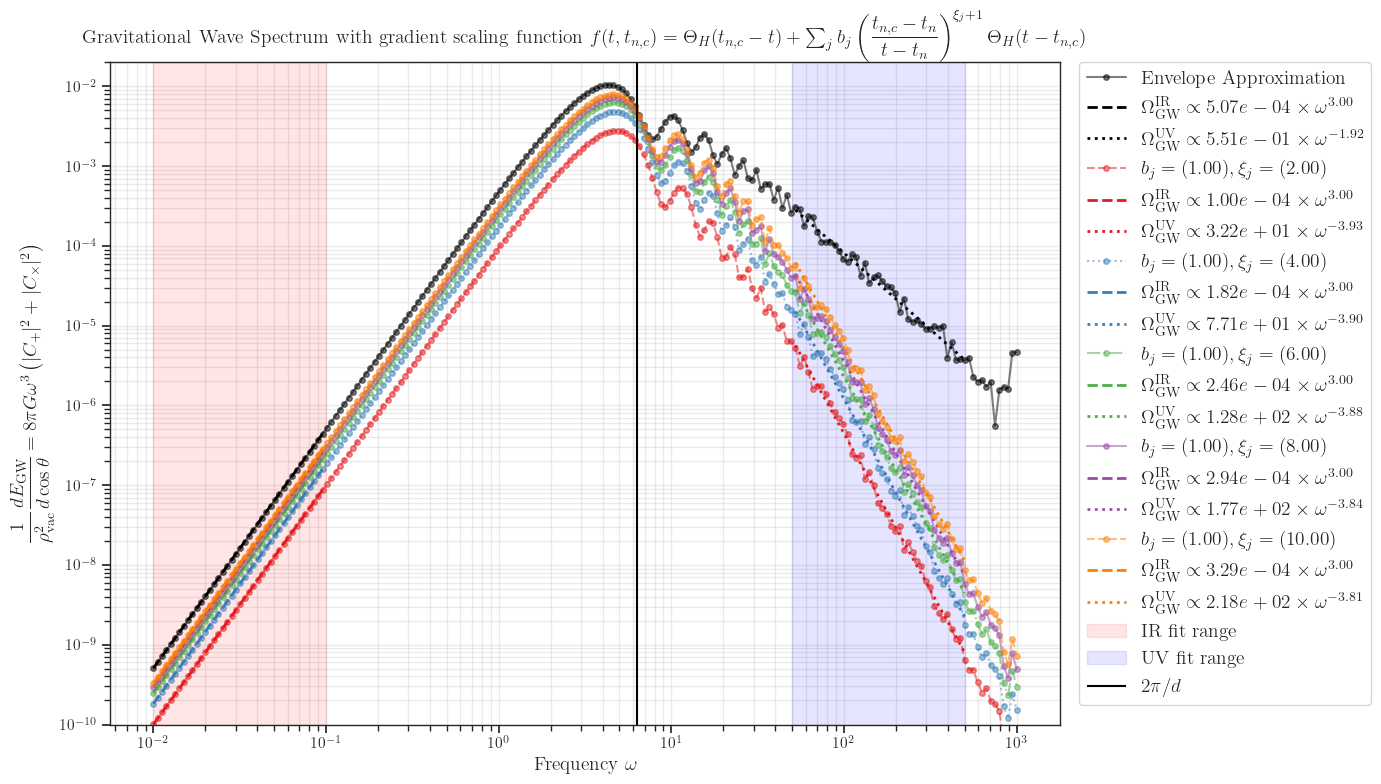
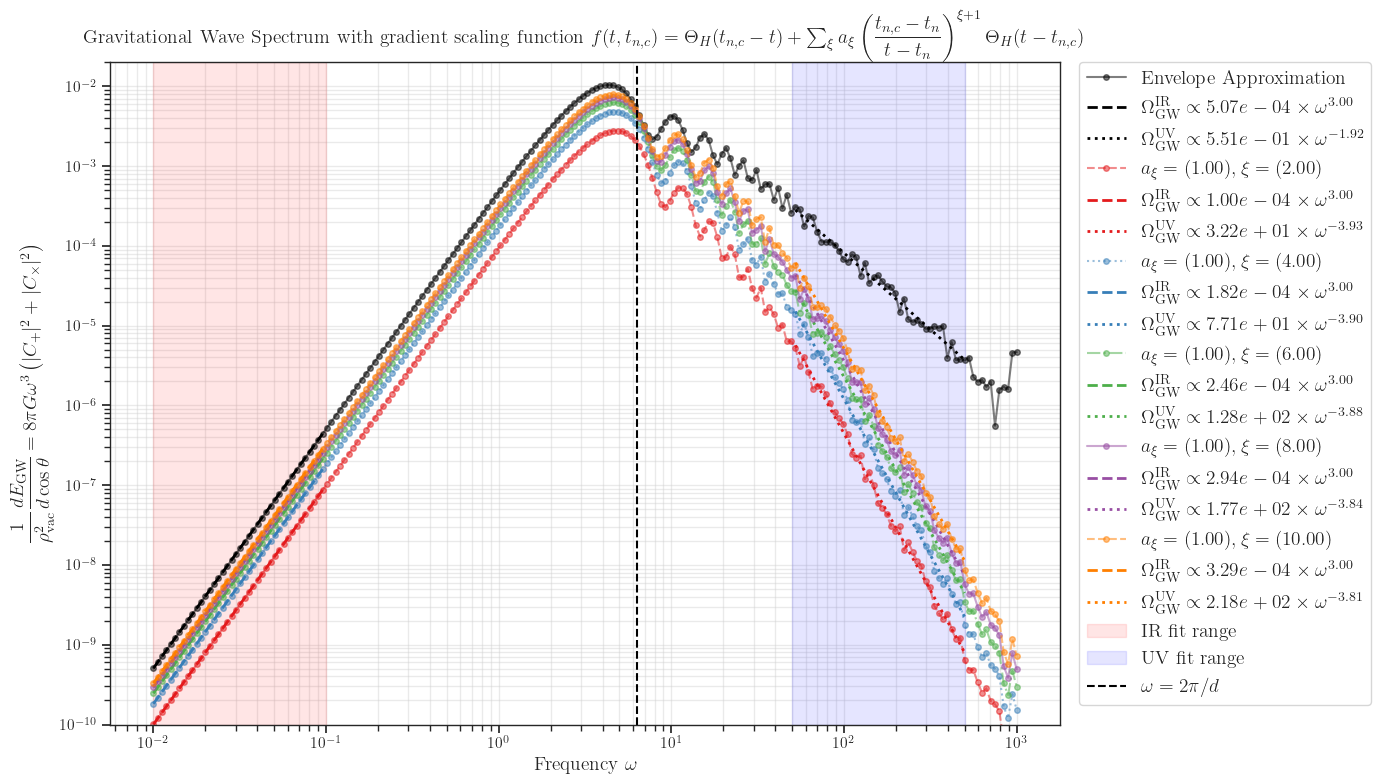
docs: update generalized_bulkflow.md

diff --git a/docs/examples/generalized_bulkflow.py b/docs/examples/generalized_bulkflow.py
@@ -442,7 +442,7 @@ def plot_omega_gw(
                 # Format coefficients and powers without trailing comma
                 coeff_str = ", ".join(f"{c:.2f}" for c in coeffs)
                 xi_str = ", ".join(f"{p - 1:.2f}" for p in powers_sets[s])
-                labels.append(f"$b_j=({coeff_str}), \\xi_j=({xi_str})$")
+                labels.append(f"$a_\\xi=({coeff_str}), \\xi=({xi_str})$")
     else:
         labels = [
             f"Set {s}" if n_sets > 1 else r"$\Omega_{\text{gw}}$" for s in range(n_sets)
@@ -599,7 +599,7 @@ def plot_omega_gw(
         fontsize=14,
     )
     ax.set_title(
-        r"Gravitational Wave Spectrum with gradient scaling function $f(t, t_{n, c}) = \Theta_H(t_{n, c} - t) + \sum_j b_j \left( \dfrac{t_{n, c} - t_n}{t - t_n} \right)^{\xi_j + 1} \Theta_H(t - t_{n, c})$",
+        r"Gravitational Wave Spectrum with gradient scaling function $f(t, t_{n, c}) = \Theta_H(t_{n, c} - t) + \sum_\xi a_\xi \left( \dfrac{t_{n, c} - t_n}{t - t_n} \right)^{\xi + 1} \Theta_H(t - t_{n, c})$",
         fontsize=14,
     )
 
@@ -723,7 +723,14 @@ ax.yaxis.set_major_locator(mpl.ticker.LogLocator(numticks=999))
 ax.yaxis.set_minor_locator(mpl.ticker.LogLocator(numticks=999, subs="auto"))
 ybottom, ytop = (1e-10, 2e-2)
 ax.set_ylim(bottom=ybottom, top=ytop)
-ax.vlines(x=2 * np.pi / d, ymin=ybottom, ymax=ytop, color="black", label=r"$2 \pi / d$")
+ax.vlines(
+    x=2 * np.pi / d,
+    ymin=ybottom,
+    ymax=ytop,
+    ls="--",
+    color="black",
+    label=r"$\omega = 2 \pi / d$",
+)
 ax.legend(bbox_to_anchor=(1.02, 1), loc="upper left", borderaxespad=0.0, fontsize=14)
 fig.savefig(
     f"./figures/two_bubbles/gw_spectrum_apprx.png",

diff --git a/docs/generalized_bulkflow.md b/docs/generalized_bulkflow.md
@@ -3,13 +3,13 @@
 ## Physics Background
 
 Consider the gravitational waves (GW) background sourced by bubble collisions during First Order Phase Transition (FOPT).
-The GW energy radiated along the $\hat{\textbf{z}}$ direction is
+The GW energy radiated inside a differential solid angle $d \Omega_{\mathbf{k}}$ the direction of unit momentum vector $\hat{\mathbf{k}}$ is
 
 ```math
 \begin{align}
-\frac{d E_{GW}}{d \omega d \Omega}
-    &= 2 G \omega^2 \Lambda_{ij,lm}(\hat{\mathbf{k}}) \widetilde{T}^{*}_{ij}(\hat{\mathbf{k}},\omega) \widetilde{T}_{lm}(\hat{\mathbf{k}},\omega) \nonumber \\
-    &= 2 G \omega^2 \left( \mathrm{Tr}\left[ P_{\hat{\mathbf{k}}} \widetilde{T}^\ast_{} P_{\hat{\mathbf{k}}} \widetilde{T} \right] - \dfrac{1}{2} \left\vert \mathrm{Tr}\left[ P_{\hat{\mathbf{k}}} \widetilde{T} \right] \right\vert^2 \right),
+\frac{d E_{GW}}{d \ln \omega \, d \Omega_{\mathbf{k}}}
+    &= 2 G \omega^3 \Lambda_{ij,lm}(\hat{\mathbf{k}}) \widetilde{T}^{*}_{ij}(\hat{\mathbf{k}},\omega) \widetilde{T}_{lm}(\hat{\mathbf{k}},\omega) \nonumber \\
+    &= 2 G \omega^3 \left( \mathrm{Tr}\left[ P_{\hat{\mathbf{k}}} \widetilde{T}^\ast_{} P_{\hat{\mathbf{k}}} \widetilde{T} \right] - \dfrac{1}{2} \left\vert \mathrm{Tr}\left[ P_{\hat{\mathbf{k}}} \widetilde{T} \right] \right\vert^2 \right),
 \end{align}
 ```
 
@@ -17,17 +17,17 @@ where
 
 ```math
 \begin{align*}
-    \Lambda_{ij,lm}(\hat{\mathbf{k}}) &= P_{\hat{\mathbf{k}}}^{il} P_{\hat{\mathbf{k}}}^{jm} - \dfrac{1}{2} P_{\hat{\mathbf{k}}}^{ij} P_{\hat{\mathbf{k}}}^{lm}, \qquad P_{\hat{\mathbf{k}}}^{ij} = \delta_{ij} - \hat{\mathbf{k}}_i \hat{\mathbf{k}}_j \\
+    \Lambda_{ij,lm}(\hat{\mathbf{k}}) &= P_{\hat{\mathbf{k}}}^{il} P_{\hat{\mathbf{k}}}^{jm} - \dfrac{1}{2} P_{\hat{\mathbf{k}}}^{ij} P_{\hat{\mathbf{k}}}^{lm}, \qquad P_{\hat{\mathbf{k}}}^{ij} = \delta_{ij} - \hat{k}_i \hat{k}_j \\
     T_{ij}(\hat{\mathbf{k}},\omega) &=\frac{1}{2\pi}\int dt \, d^3x \, e^{i\omega(t-\hat{\mathbf{k}} \cdot \mathbf{x})}T_{ij}(\mathbf{x},t)
     = \kappa \rho_\text{vac} v_b^3 C_{ij} (\hat{\mathbf{k}},\omega), \\
     C_{ij}(\hat{\mathbf{k}},\omega) &= \dfrac{1}{6 \pi} \sum_n \int dt \, e^{i \omega (t - \hat{\mathbf{k}} \cdot \mathbf{x}_n)} A_{n, ij}(\hat{\mathbf{k}},\omega), \\
-    A_{n, ij}(\hat{\mathbf{k}},\omega) &= \int_{S_n} d \Omega_x \, e^{-i \omega v_b (t - t_n) \hat{\mathbf{k}} \cdot \mathbf{\hat{x}}} \hat{\mathbf{x}}_i \hat{\mathbf{x}}_j \left[ (t - t_n)^3  f(t,t_{n,c})\right]
+    A_{n, ij}(\hat{\mathbf{k}},\omega, t) &= \int_{S_n} d \Omega_{\mathbf{x}} \, e^{-i \omega v_b (t - t_n) \hat{\mathbf{k}} \cdot \mathbf{\hat{x}}} \hat{\mathbf{x}}_i \hat{\mathbf{x}}_j \left[ (t - t_n)^3  f(t, t_n, t_{n,c})\right]
 \end{align*}
 ```
 
 Where
 
-+ $t_{n,c}(\zeta, \phi)$ denotes the time at which the wall element of the $n$-th bubble undergoes a the first collision with other bubbles.
++ $t_{n,c}(\cos \theta_x, \phi_x)$ denotes the time at which the wall element of the $n$-th bubble undergoes the first collision with other bubbles.
 + $X_{ij} \equiv \hat{\mathbf{x}}_i \hat{\mathbf{x}}_j$ in spherical coordinates reads
 
 $$
@@ -40,10 +40,13 @@ $$
 
 + $f(t, t_n, t_{n, c})$ is the scaling function, which can be decomposed into the envelope contribution (i.e before first collision) and generalized bulk-flow contribution (i.e after first collision) as follows
 
-$$
-f_\sigma(t, t_n, t_{n, c}) \equiv \Theta(t_{n, c}-t)
-    + \Theta(t - t_{n, c}) \left(\frac{t_{n, c}-t_n}{t-t_n}\right)^3 \sum_\xi a_\xi \left(\frac{t_{n, c}-t_n}{t-t_n}\right)^\xi,
-$$
+```math
+\begin{align}
+f_\sigma(t, t_n, t_{n, c}) &\equiv \Theta(t_{n, c}-t)
+    + \Theta(t - t_{n, c}) \left(\frac{t_{n, c}-t_n}{t-t_n}\right)^3 \sum_\xi a_\xi \left(\frac{t_{n, c}-t_n}{t-t_n}\right)^\xi, \\
+    &= f_\sigma^{(\text{env})}(t, t_{n, c}) + \sum_\xi f_\sigma^{(\xi)}(t, t_n, t_{n, c})
+\end{align}
+```
 
 where the coefficients $a_\xi$ can be extracted from fitting the surface tension of the bubble wall from e.g $(1+1)D$ simulation using package **bubble_dynamics**
 
@@ -52,21 +55,27 @@ $$
     + \Theta(t - t_{n, c}) \sigma_0 (t_{n, c} - t_n) \left(\frac{t_{n, c}-t_n}{t-t_n}\right)^2 \sum_\xi a_\xi \left(\frac{t_{n, c}-t_n}{t-t_n}\right)^\xi,
 $$
 
-With the choice $\hat{\mathbf{k}} = (0, 0, 1)$, the computations are simplified to
+***Some observations that can help to optimize the computatations***
 
-```math
-\begin{align}
-    \frac{d E_{GW}}{d \omega d \Omega_x}
-    &=  G \omega^2 \left(\left\vert \widetilde{T}_{xx} - \widetilde{T}_{yy}\right\vert^2+2 \left\vert \widetilde{T}_{xy} \right\vert^2 + 2 \left\vert\widetilde{T}_{yx} \right\vert^2 \right) \nonumber \\
-    &= 4 G \rho_\text{vac}^2 \omega^2 \left( \vert C_+ \vert^2 + \vert C_- \vert^2 \right), \\
-    C_\pm(\omega) &= \dfrac{1}{6 \pi} \sum_{n=1}^N \int dt \ e^{i \omega (t - z_n)} A_{n, \pm}(\omega, t), \\
-    A_{n, \pm}(\omega, t) &= \int_{-1}^1 d \cos \theta_x \ e^{-i \omega (t - t_n) \cos \theta_x} B_{n, \pm} (\cos \theta_x, t), \\
-    B_{n, \pm}(\cos \theta_x, t) &= \dfrac{\sin^2 \theta_x}{2} \int_0^{2 \pi} d \phi_x \ X_\pm(\phi_x) \left[ (t - t_n)^3  f(t,t_{n,c})\right]
-\end{align}
-```
++ With the choice $\hat{\mathbf{k}} = \hat{\mathbf{z}} = (0, 0, 1)$, the computations reduce to
 
-In the final line, we define $X_+ \equiv \cos 2\phi_x$, $X_- \equiv \sin 2\phi_x$.
-Here, $z_n$ and $t_n$ denote the $z$-coordinate and the nucleation time of the $n$-th bubble, respectively.
+    ```math
+    \begin{align}
+        \frac{d E_{GW}}{d \ln \omega \, d \Omega_{\mathbf{k}}}
+        &=  G \omega^3 \left(\left\vert \widetilde{T}_{xx} - \widetilde{T}_{yy}\right\vert^2+2 \left\vert \widetilde{T}_{xy} \right\vert^2 + 2 \left\vert\widetilde{T}_{yx} \right\vert^2 \right) \nonumber \\
+        &= 4 G \rho_\text{vac}^2 \omega^3 \left( \vert C_+ \vert^2 + \vert C_- \vert^2 \right), \\
+        C_\pm(\omega) &= \dfrac{1}{6 \pi} \sum_{n=1}^N \int dt \ e^{i \omega (t - z_n)} A_{n, \pm}(\omega, t), \\
+        A_{n, \pm}(\omega, t) &= \int_{-1}^1 d \cos \theta_x \ e^{-i \omega (t - t_n) \cos \theta_x} B_{n, \pm} (\cos \theta_x, t), \\
+        B_{n, \pm}(\cos \theta_x, t) &= \dfrac{\sin^2 \theta_x}{2} \int_0^{2 \pi} d \phi_x \ X_\pm(\phi_x) \left[ (t - t_n)^3  f(t, t_n, t_{n,c})\right]
+    \end{align}
+    ```
+
+    In the final line, we define $X_+ \equiv \cos 2\phi_x$, $X_- \equiv \sin 2\phi_x$.
+    Here, $z_n$ and $t_n$ denote the $z$-coordinate and the nucleation time of the $n$-th bubble, respectively.
+    This way, we can compute $B_{n, \pm}$ once and reuse for all input frequencies $\omega$, hence reduce the computational cost by a factor of $\mathcal{O}(n_\omega)$.
+
++ Assuming that the scaling functions $f(t, t_n, t_{n, c})$ can be well approximated by the Taylor series form as above, we can compute the coefficients $C_\pm^{(\xi)}(\omega)$ corresponding to $f^{(\xi)}(t, t_n, t_{n, c})$ and $C_\pm^{(\text{env})}(\omega)$ corresponding to $f^{(\text{env})}(t, t_{n, c})$.
+    Then for any phase transition models, we find $f(t, t_n, t_{n, c})$ from e.g $(1+1)D$ simulation, then fit to extract the coefficients $a_\xi$, and obtain the spectrum $dE_{GW}/(d \ln \omega d \Omega_{\mathbf{k}})$ without having to recompute $C_\pm(\omega)$.
 
 ## Example of computing GW spectrum in many bubbles set-up
 
